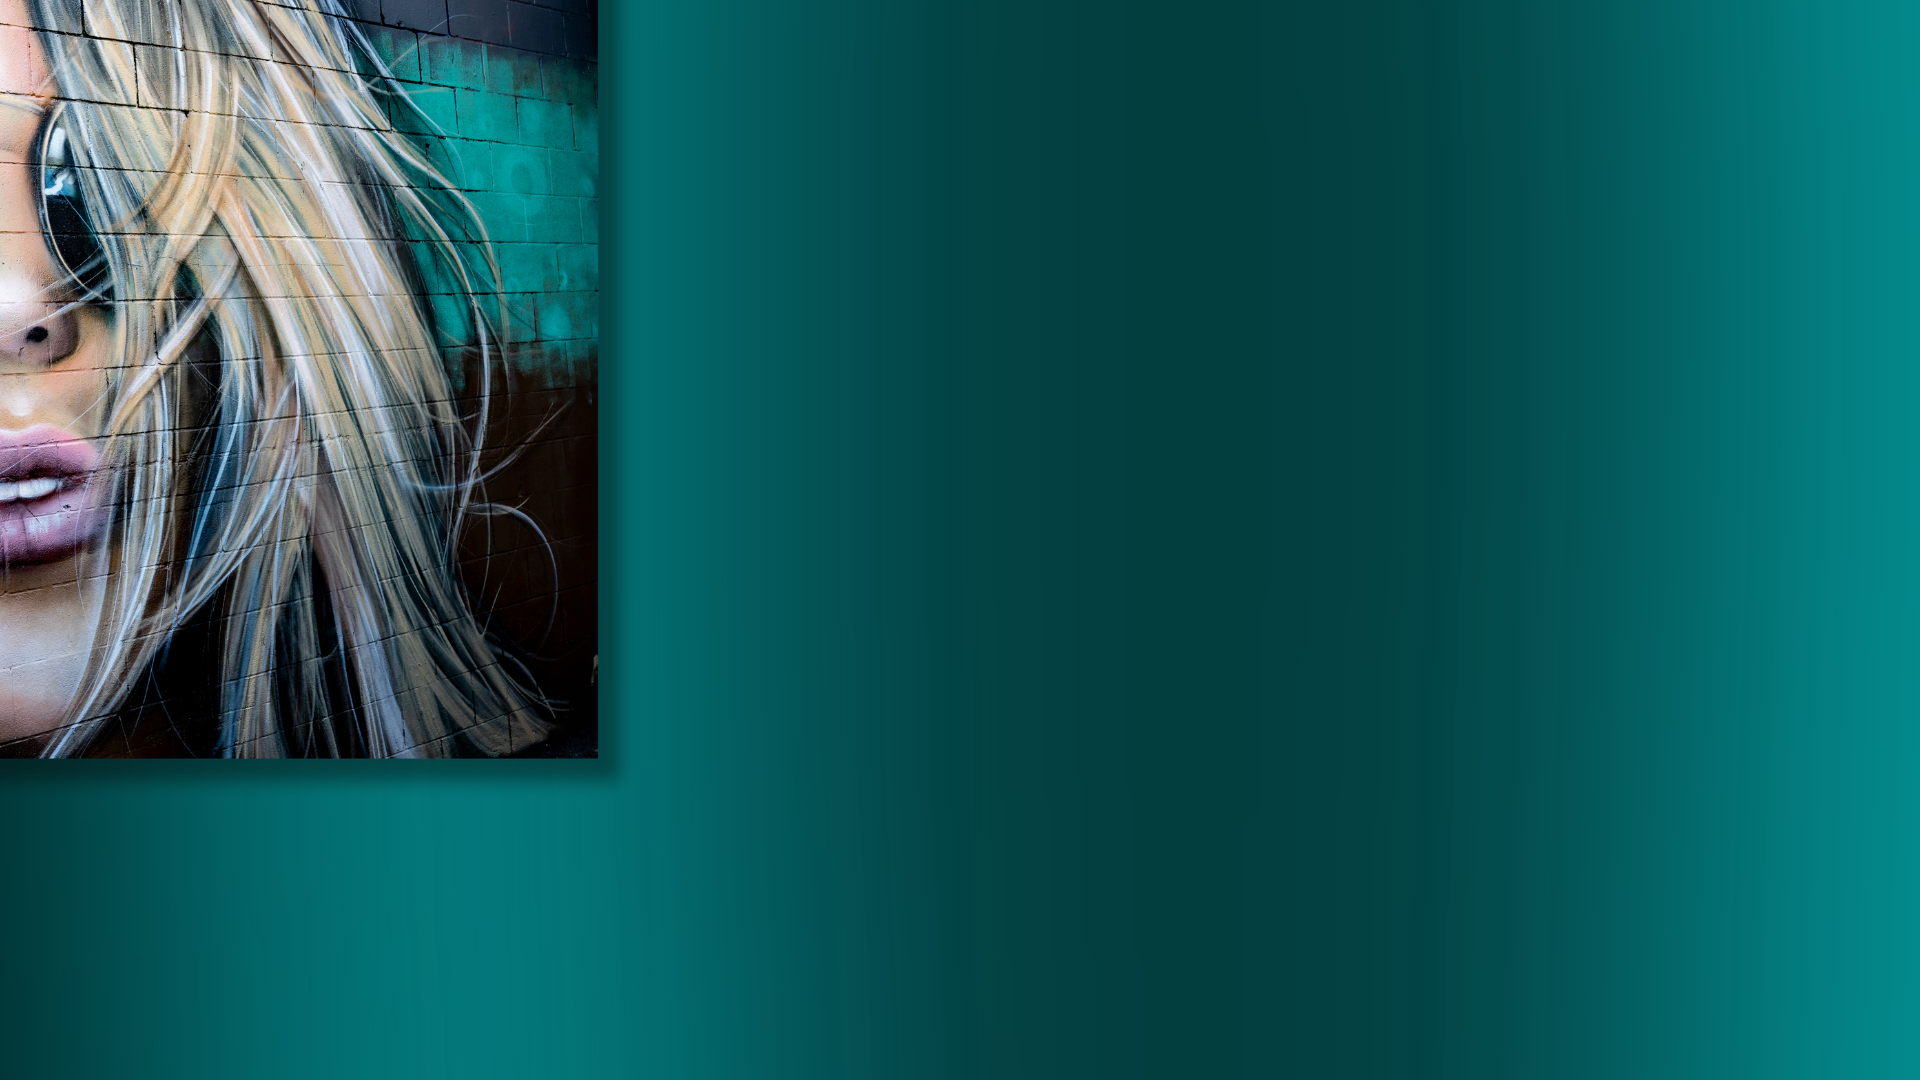
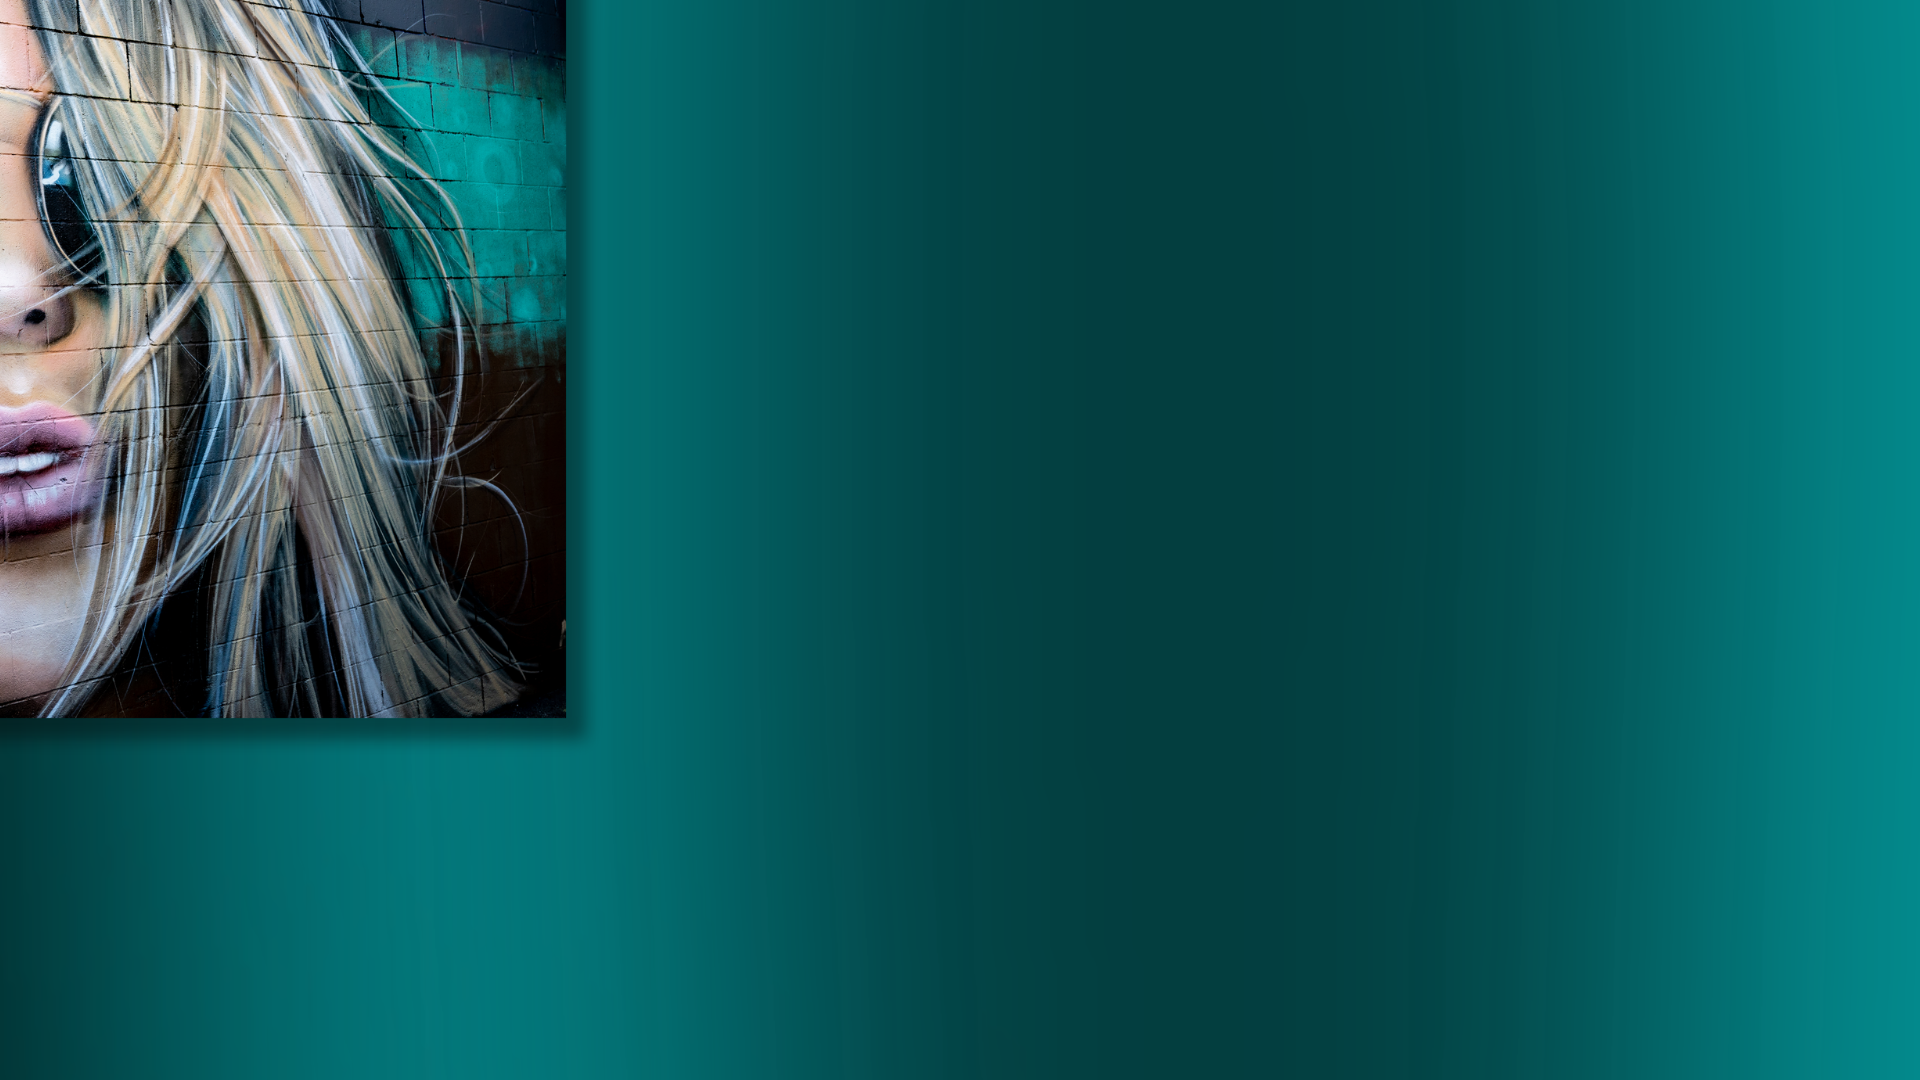
update

Changed region(s): [[0.0, 0.0, 0.3438, 0.7333]]

diff --git a/client/src/views/About/About.jsx b/client/src/views/About/About.jsx
@@ -3,8 +3,8 @@ import {
   MDBBtn,
  
 } from 'mdb-react-ui-kit';
-import Graf from '../../assets/images/Graf.png';
-// Correct import statement for MDBIcon
+import Graffiti2 from '../../assets/images/Graffiti2.png';;
+// Correct import statement ../../components/DesignCarousel/Carousel
 export default function App() {
  
 
@@ -16,7 +16,7 @@ export default function App() {
         id='intro-example'
         className='p-5 text-center bg-image'
            style={{
-          backgroundImage: `url(${Graf})`,
+          backgroundImage: `url(${Graffiti2})`,
           backgroundSize: 'cover', // Set the background size to cover the entire viewport
           backgroundRepeat: 'no-repeat',
           backgroundAttachment: 'fixed', // Optional: Keep the background fixed while scrolling
@@ -25,7 +25,7 @@ export default function App() {
         <div className='mask' style={{ backgroundColor: 'rgba(0, 0, 0, 0.0)' }}>
           <div className='d-flex justify-content-center align-items-center h-100'>
             <div className='text-white'>
-              <h1 className='mb-3'>Learn Bootstrap 5 with MDB</h1>
+              <h1 className='mb-3'>Graphic Design</h1>
               <h5 className='mb-4'>Best &amp; free guide of responsive web design</h5>
               <MDBBtn
                 className='m-2'
@@ -52,6 +52,7 @@ export default function App() {
           </div>
         </div>
       </div>
+     
     </header>
   );
 }

diff --git a/client/src/components/DesignCarousel/Carousel.jsx b/client/src/components/DesignCarousel/Carousel.jsx
@@ -9,8 +9,7 @@ import {
   MDBCollapse,
   MDBBtn,
 } from 'mdb-react-ui-kit';
-import { MDBIcon } from 'mdb-react-ui-kit-icons'; // Correct import statement for MDBIcon
-
+import { MDBIcon } from 'mdb-react-ui-kit';
 export default function App() {
   const [showBasic, setShowBasic] = useState(false);
 
